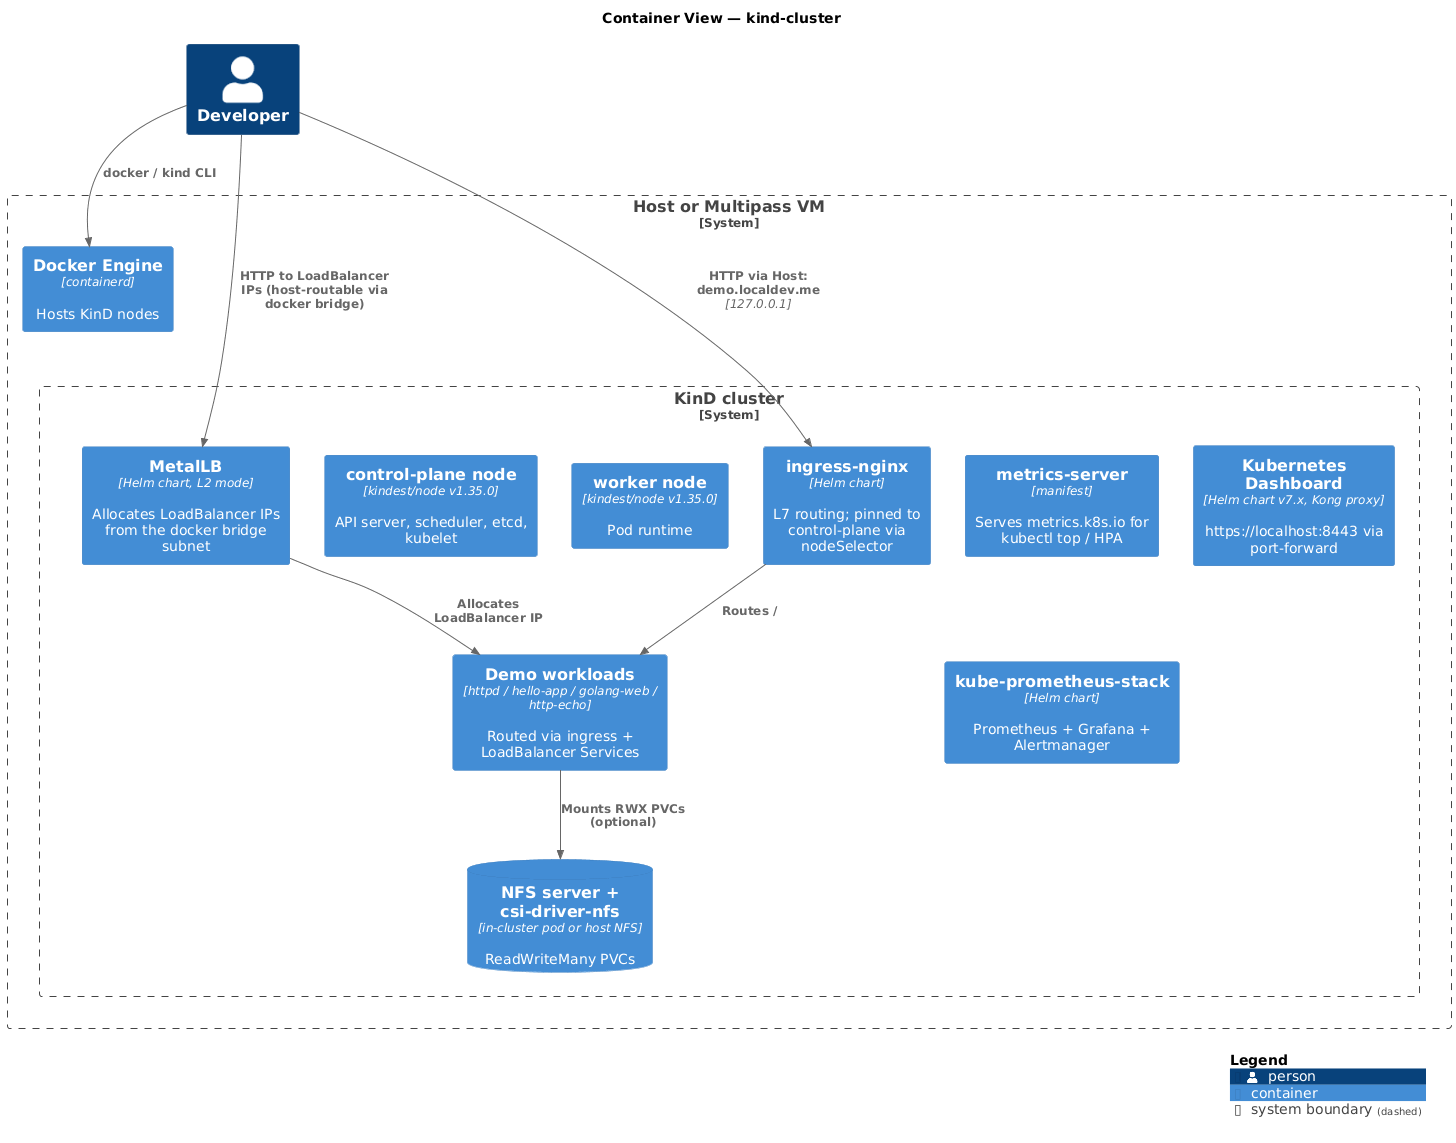
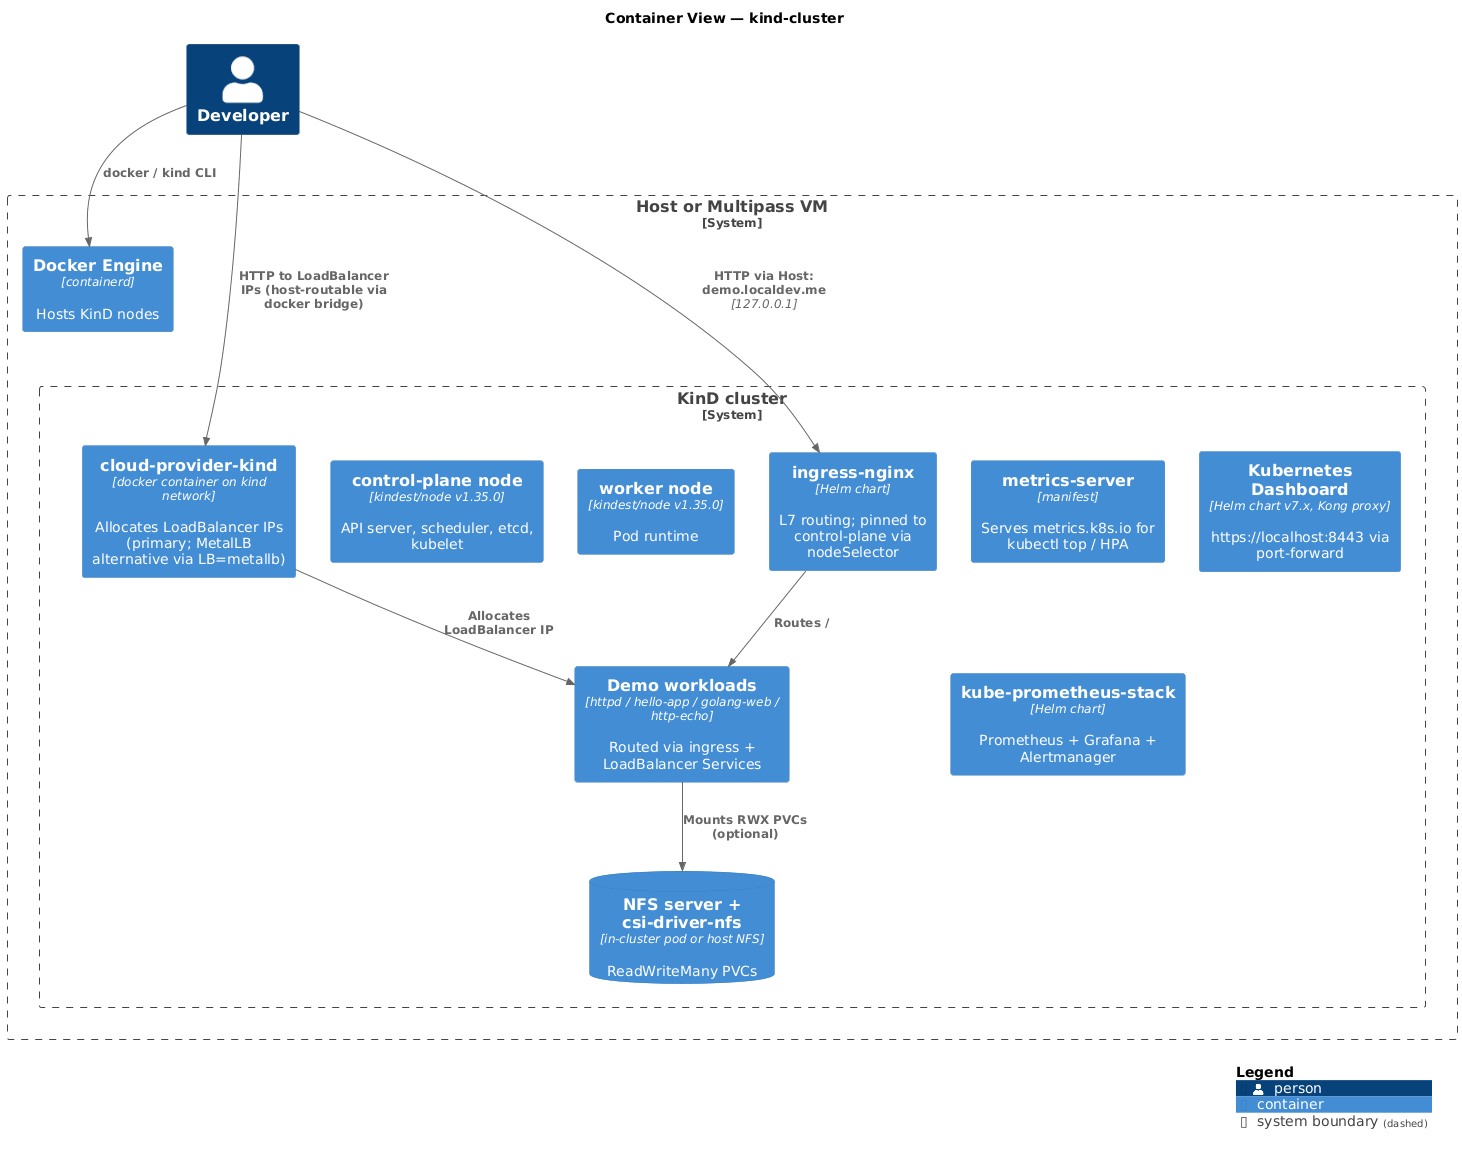
feat: make cloud-provider-kind the primary LoadBalancer; retain MetalLB
The portfolio's /makefile skill recommends cloud-provider-kind (CPK) for
KinD clusters: kind-team maintained, no in-cluster footprint, no
IPAddressPool/L2Advertisement YAML, no Docker-subnet carving. This repo
was on MetalLB pre-dating that guidance; aligning it with the skill while
preserving MetalLB as an opt-in for L2/BGP parity testing.

Makefile
  - CLOUD_PROVIDER_KIND_VERSION := v0.10.0 with `# renovate:` inline
    comment tracking registry.k8s.io/cloud-provider-kind/cloud-controller-manager
  - exported to scripts' env
  - two new targets (breaking rename from old `make metallb`):
      `make lb-cpk`      — install cloud-provider-kind (primary)
      `make lb-metallb`  — install MetalLB (alternative)

Scripts
  - NEW scripts/kind-add-cloud-provider-kind.sh — idempotent host-side
    docker-run on the `kind` network, refuses if MetalLB is present,
    verifies `kind` network exists
  - kind-install-all.sh dispatches on `LB=cpk|metallb` (default cpk)
  - kind-add-metallb.sh hard-refuses if CPK container is running
  - kind-delete.sh `docker rm -f cloud-provider-kind` BEFORE `kind delete`
    (prevents CPK zombie container when kind removes its docker network)
  - kind-create.sh --wait 10s → 60s (control-plane p95 on CI)
  - e2e-smoke.sh assertion matrix: LB-agnostic "ingress has ExternalIP"
    always, plus provider-specific check branched on ${LB:-cpk}

CI
  - ci.yml e2e job: install CPK instead of MetalLB on every push
[…]

diff --git a/README.md b/README.md
@@ -5,7 +5,7 @@
 
 # kind-cluster
 
-Local Kubernetes lab on Docker via [KinD](https://kind.sigs.k8s.io/) — ingress, MetalLB, Dashboard, RWX NFS storage, and Prometheus wired up out of the box. Run on your host, or inside a throwaway Multipass VM.
+Local Kubernetes lab on Docker via [KinD](https://kind.sigs.k8s.io/) — ingress, cloud-provider-kind (with MetalLB as a drop-in alternative), Dashboard, RWX NFS storage, and Prometheus wired up out of the box. Run on your host, or inside a throwaway Multipass VM.
 
 <img src="docs/diagrams/out/c4-context.png" alt="System Context — kind-cluster" width="700">
 
@@ -13,7 +13,8 @@ Local Kubernetes lab on Docker via [KinD](https://kind.sigs.k8s.io/) — ingress
 |-----------|-----------|-----------|
 | Cluster | [KinD](https://kind.sigs.k8s.io/) v0.31.0 on Docker | Fastest local k8s — single binary, multi-node config, no VM overhead |
 | Ingress | [ingress-nginx](https://kubernetes.github.io/ingress-nginx/) | Reference controller; matches what most cloud-managed clusters expose |
-| Load Balancer | [MetalLB](https://metallb.universe.tf/) | Gives KinD `Service: LoadBalancer` real IPs on the docker bridge — no `kubectl port-forward` per service |
+| Load Balancer (default) | [cloud-provider-kind](https://github.com/kubernetes-sigs/cloud-provider-kind) v0.10.0 | Allocates `Service: LoadBalancer` IPs on the `kind` docker bridge. Runs as a single host container; no in-cluster footprint, no `IPAddressPool`/`L2Advertisement`. Kind-team maintained. |
+| Load Balancer (alternative) | [MetalLB](https://metallb.universe.tf/) v0.15.3 | `LB=metallb make install-all`. Needed for L2/BGP parity testing, prod-mirror setups, or multi-cluster scenarios cloud-provider-kind doesn't cover. |
 | Storage (RWX) | [csi-driver-nfs](https://github.com/kubernetes-csi/csi-driver-nfs) v4.13.1 | Same driver backs both in-cluster and host-NFS modes — only the StorageClass differs |
 | Observability | [kube-prometheus-stack](https://github.com/prometheus-community/helm-charts) | One-shot Prometheus + Grafana + Alertmanager + node-exporter for HPA / dashboards |
 | Dashboard | [Kubernetes Dashboard](https://github.com/kubernetes/dashboard) v7.x | Helm chart v7 ships Kong-fronted dashboard with admin token in repo root |
@@ -25,13 +26,34 @@ Local Kubernetes lab on Docker via [KinD](https://kind.sigs.k8s.io/) — ingress
 
 Source: [`docs/diagrams/c4-container.puml`](./docs/diagrams/c4-container.puml). Render with `make diagrams` (uses pinned `plantuml/plantuml` Docker image).
 
-The cluster runs entirely on the local Docker bridge. MetalLB hands out LoadBalancer IPs from the bridge's IPv4 subnet so demo apps are reachable directly via `curl <LB_IP>:<port>` from the host. Ingress is bound to the control-plane node and patched to type `LoadBalancer` so `http://demo.localdev.me/` works without `kubectl port-forward`. The dashboard's Kong proxy listens on port 8443 inside the cluster — reach it via the `dashboard-forward` target.
+The cluster runs entirely on the local Docker bridge. The LoadBalancer provider (cloud-provider-kind by default) hands out `Service: LoadBalancer` IPs from the bridge's IPv4 subnet, so demo apps are reachable directly via `curl <LB_IP>:<port>` from the host. Ingress is bound to the control-plane node via the `ingress-ready` label and `kind-config.yaml` `extraPortMappings` 80/443, so `http://demo.localdev.me/` works through the host port — independent of which LoadBalancer provider is active. The dashboard's Kong proxy listens on port 8443 inside the cluster — reach it via the `dashboard-forward` target.
+
+### Which LoadBalancer?
+
+The default is **cloud-provider-kind** (CPK). It's simpler, faster to stand up, and maintained by the kind team. Stick with it unless you have a specific reason to pick MetalLB.
+
+| | cloud-provider-kind (default) | MetalLB |
+|---|---|---|
+| Install form | host `docker run` on the `kind` network | in-cluster Deployment + DaemonSet + CRDs |
+| IP allocation | automatic from the `kind` Docker subnet | you declare an `IPAddressPool` range |
+| Maintenance | kind-team, single binary | independent release cadence |
+| When to pick | default — works for everything this repo deploys | you need BGP / L2Advertisement parity with prod, or want to reproduce a MetalLB-specific bug |
+
+Switch to MetalLB for a single run:
+
+```bash
+LB=metallb make install-all           # first-time install
+# or, on an already-created cluster:
+make lb-metallb                        # install MetalLB as the add-on
+```
+
+Switching providers on a live cluster requires tearing down the first one — each script hard-refuses if the other is present. Run `make kind-down && LB=<provider> make kind-up` for a clean reset.
 
 ## Quick Start
 
 ```bash
 make deps        # auto-bootstraps mise + installs pinned tools from .mise.toml
-make kind-up     # create cluster + Nginx ingress + MetalLB + demo workloads
+make kind-up     # create cluster + Nginx ingress + cloud-provider-kind + demo workloads
 kubectl cluster-info --context kind-kind
 echo "127.0.0.1 demo.localdev.me" | sudo tee -a /etc/hosts   # one-time
 # Open http://demo.localdev.me/
@@ -243,7 +265,7 @@ echo "INGRESS_IP=$INGRESS_IP  HELLOWEB_IP=$HELLOWEB_IP  GOLANG_IP=$GOLANG_IP  FO
 
 ### Step 3 — make the IPs reachable from your host
 
-**Path A (bare host).** The MetalLB LoadBalancer IPs live on your laptop's `kind` docker bridge and are already reachable. Skip to Step 4.
+**Path A (bare host).** The LoadBalancer IPs live on your laptop's `kind` docker bridge and are already reachable. Skip to Step 4.
 
 **Path B (Multipass VM).** The IPs live on the VM's internal docker bridge and are **not routable from your host by default**. Pick one of the two approaches:
 
@@ -273,7 +295,7 @@ With Option 1 the URLs change: replace `$INGRESS_IP`/`$HELLOWEB_IP`/`$GOLANG_IP`
 
 #### Path B · Option 2 — Static route to the kind subnet (Linux/macOS, sudo once, natural URLs)
 
-Route the VM's kind docker subnet through the VM. After this, the MetalLB IPs are reachable directly from your host — the URLs in Step 4 work unchanged in your browser.
+Route the VM's kind docker subnet through the VM. After this, the LoadBalancer IPs are reachable directly from your host — the URLs in Step 4 work unchanged in your browser.
 
 ```bash
 # [HOST] — discover the kind IPv4 subnet (modern Docker lists IPv6 first when dual-stack)
@@ -359,7 +381,7 @@ Browser: `https://localhost:8443`
 
 ### kube-prometheus-stack (Prometheus + Grafana + Alertmanager)
 
-Installs the community [`kube-prometheus-stack`](https://github.com/prometheus-community/helm-charts/tree/main/charts/kube-prometheus-stack) Helm chart into the `monitoring` namespace and patches the `grafana` Service to `LoadBalancer` (served via MetalLB). Prometheus and Alertmanager stay as ClusterIPs — reach them via `kubectl port-forward`.
+Installs the community [`kube-prometheus-stack`](https://github.com/prometheus-community/helm-charts/tree/main/charts/kube-prometheus-stack) Helm chart into the `monitoring` namespace and patches the `grafana` Service to `LoadBalancer` (served via the LoadBalancer provider). Prometheus and Alertmanager stay as ClusterIPs — reach them via `kubectl port-forward`.
 
 The credential-discovery snippets reuse the `kube` function from [Access services · Step 1](#step-1--point-kubectl-at-the-cluster). Paths labelled **[HOST]** run on your laptop; **[VM]** run inside the Multipass VM.
 
@@ -383,7 +405,7 @@ echo "Alertmanager:  http://localhost:9093/"
 
 #### Path B — Multipass VM (`make vm-install-all`)
 
-Install runs inside the VM. `kube port-forward` would bind the VM's localhost (not your host's) — so the port-forward stays in the VM and you add an outer SSH tunnel from the host. Grafana goes through MetalLB so the access mode depends on which Option from §Access services Step 3 you picked.
+Install runs inside the VM. `kube port-forward` would bind the VM's localhost (not your host's) — so the port-forward stays in the VM and you add an outer SSH tunnel from the host. Grafana goes through the LoadBalancer provider so the access mode depends on which Option from §Access services Step 3 you picked.
 
 ```bash
 # [VM] — install + start in-VM port-forwards
@@ -438,7 +460,7 @@ make registry         # create cluster + registry container
 make registry-test    # pull hello-app, retag to localhost:5001, push, deploy, curl
 ```
 
-This is an **alternative** to the default `make install-all` flow — the registry cluster doesn't include ingress, MetalLB, or the demo workloads. Useful for iterating on an image you're building locally. Tear down with `make delete-cluster` and remove the registry container with `docker rm -f kind-registry`.
+This is an **alternative** to the default `make install-all` flow — the registry cluster doesn't include ingress, a LoadBalancer provider, or the demo workloads. Useful for iterating on an image you're building locally. Tear down with `make delete-cluster` and remove the registry container with `docker rm -f kind-registry`.
 
 ## Available Make Targets
 
@@ -450,8 +472,8 @@ Run `make help` to list targets.
 |--------|-------------|
 | `make kind-up` | docker-compose-style alias for `install-all` (bring the whole stack up) |
 | `make kind-down` | docker-compose-style alias for `delete-cluster` (tear the whole stack down) |
-| `make install-all` | Create cluster + Nginx ingress + MetalLB + demo workloads (granular) |
-| `make install-all-no-demo-workloads` | Create cluster + Nginx ingress + MetalLB (no demo apps) |
+| `make install-all` | Create cluster + Nginx ingress + LoadBalancer (cloud-provider-kind default, or `LB=metallb`) + demo workloads |
+| `make install-all-no-demo-workloads` | Same minus demo apps |
 | `make create-cluster` | Create KinD cluster (granular) |
 | `make delete-cluster` | Delete KinD cluster (granular) |
 | `make export-cert` | Export k8s client keys and CA certificates |
@@ -466,7 +488,8 @@ Run `make help` to list targets.
 | `make dashboard-forward` | Port-forward dashboard to `https://localhost:8443` and open browser |
 | `make dashboard-token` | Print the admin-user token |
 | `make nginx-ingress` | Install Nginx ingress controller |
-| `make metallb` | Install MetalLB load balancer |
+| `make lb-cpk` | Install cloud-provider-kind (primary LoadBalancer; default for `make install-all`) |
+| `make lb-metallb` | Install MetalLB (alternative; also: `LB=metallb make install-all`) |
 | `make metrics-server` | Install metrics-server (for `kubectl top` / HPA) |
 | `make kube-prometheus-stack` | Install Prometheus + Grafana + Alertmanager |
 
@@ -535,7 +558,8 @@ GitHub Actions runs on every push to `main`, tags `v*`, and pull requests.
 |-----|-------|-------|
 | **static-check** | — | `make static-check` (lint + secrets + trivy-fs + trivy-config + mermaid-lint + diagrams-check) |
 | **docker** | static-check | `make image-test` — build and runtime-verify the `kubectl-test` image |
-| **e2e** | static-check | `jdx/mise-action` (pinned tools from `.mise.toml`) + `make deps` + `make create-cluster`, install ingress + MetalLB + dashboard, deploy all demo workloads, run `make e2e` for body-asserting smoke tests via `docker exec` into the kind control-plane (~3.5 min end-to-end) |
+| **e2e** | static-check | `jdx/mise-action` + `make deps` + `make create-cluster`, install ingress + cloud-provider-kind + dashboard, deploy all demo workloads, run `make e2e` for body-asserting smoke tests via `docker exec` (~4 min end-to-end) |
+| **e2e-metallb** | — | Mirrors `e2e` but installs MetalLB instead of cloud-provider-kind. Weekly cron (Sun 04:00 UTC) + `workflow_dispatch` + push to `scripts/kind-add-metallb.sh`. Catches MetalLB regressions without taxing every PR. |
 | **ci-pass** | static-check, docker, e2e | Aggregate gate — fails if any upstream job failed or was cancelled |
 
 A separate `cleanup-runs.yml` workflow prunes old workflow runs on a weekly schedule (Sunday midnight).

diff --git a/CLAUDE.md b/CLAUDE.md
@@ -2,7 +2,7 @@
 
 ## Project Overview
 
-**kind-cluster** is a Shell/Kubernetes project for creating and managing local Kubernetes clusters using Docker with [KinD](https://kind.sigs.k8s.io/). It provides scripts for installing cluster components (Nginx ingress, MetalLB, dashboard) and deploying demo workloads.
+**kind-cluster** is a Shell/Kubernetes project for creating and managing local Kubernetes clusters using Docker with [KinD](https://kind.sigs.k8s.io/). It provides scripts for installing cluster components (Nginx ingress, LoadBalancer provider — cloud-provider-kind by default with MetalLB as alternative, dashboard) and deploying demo workloads.
 
 - **Owner**: AndriyKalashnykov/kind-cluster
 - **License**: MIT
@@ -25,9 +25,14 @@ images/               # Dockerfiles (kubectl-test image)
 ```bash
 make help                              # List all available targets
 make create-cluster                    # Create KinD cluster
-make install-all                       # Full install: cluster + ingress + MetalLB + demo apps
-make install-all-no-demo-workloads     # Cluster + ingress + MetalLB (no demo apps)
+make install-all                       # Full install: cluster + ingress + cloud-provider-kind + demo apps
+make install-all-no-demo-workloads     # Cluster + ingress + cloud-provider-kind (no demo apps)
+LB=metallb make install-all            # Same as install-all but with MetalLB instead of cloud-provider-kind
 make delete-cluster                    # Tear down cluster
+
+# LoadBalancer add-ons
+make lb-cpk                            # Install cloud-provider-kind (primary; already part of install-all)
+make lb-metallb                        # Install MetalLB (alternative to lb-cpk)
 
 # Multipass VM (host-agnostic alternative)
 make vm-up [NAME=…]                    # Launch Ubuntu 22.04 VM (cloud-init provisions Docker + kind + kubectl + helm)
@@ -49,7 +54,8 @@ make ci-run                            # Run GitHub Actions workflow locally via
 
 ## CI/CD
 
-- **ci.yml** — runs on push to `main`, tags `v*`, and PRs. Four jobs: `static-check` → (`docker` ‖ `e2e`) → `ci-pass`. Both `static-check` and `e2e` use `jdx/mise-action` to install the pinned toolchain from `.mise.toml` (kind, kubectl, jq, shellcheck, actionlint, gitleaks, trivy, hadolint, act — Renovate-tracked via the mise manager). The `e2e` job then runs `make deps` (verifies docker/helm/curl/base64 + idempotent `mise install`) + `make create-cluster`, runs all install/deploy scripts, then `make e2e` (delegates to `scripts/e2e-smoke.sh`) for body-asserting smoke tests via `docker exec` curl. `helm/kind-action` was dropped in favor of explicit `make` invocations to avoid the action's built-in Post-step teardown flaking on Docker daemon `did not receive an exit event` errors at job-end.
+- **ci.yml** — runs on push to `main`, tags `v*`, and PRs. Four jobs: `static-check` → (`docker` ‖ `e2e`) → `ci-pass`. Both `static-check` and `e2e` use `jdx/mise-action` to install the pinned toolchain from `.mise.toml` (kind, kubectl, jq, shellcheck, actionlint, gitleaks, trivy, hadolint, act — Renovate-tracked via the mise manager). The `e2e` job installs **cloud-provider-kind** as the LoadBalancer provider, runs all install/deploy scripts, then `make e2e` (delegates to `scripts/e2e-smoke.sh`) for body-asserting smoke tests via `docker exec` curl. `helm/kind-action` was dropped in favor of explicit `make` invocations to avoid the action's built-in Post-step teardown flaking on Docker daemon `did not receive an exit event` errors at job-end.
+- **e2e-metallb.yml** — weekly cron (Sunday 04:00 UTC) + `workflow_dispatch` + push on `scripts/kind-add-metallb.sh`. Mirrors the `e2e` job but installs **MetalLB** instead of cloud-provider-kind; runs `LB=metallb make e2e` to drive the provider-specific branch of the smoke-test assertion matrix. Catches MetalLB regressions without taxing every PR.
 - **cleanup-runs.yml** — weekly cron (Sunday midnight). Two jobs: `cleanup-runs` (prunes old runs, keeps latest 5) and `cleanup-caches` (deletes caches from closed PR branches).
 
 ## Dependencies
@@ -58,7 +64,7 @@ Runtime (user provides): Docker, helm, curl, base64.
 
 Pinned in [`.mise.toml`](./.mise.toml) and installed by `make deps` via [mise](https://mise.jdx.dev): `kind`, `kubectl`, `jq`, `shellcheck`, `actionlint`, `gitleaks`, `trivy`, `hadolint`, `act`. `make deps` auto-bootstraps mise into `~/.local/bin` if missing, then runs `mise install` (idempotent; no-op at pinned versions).
 
-Docker-image-pinned in Makefile (Renovate-tracked via inline `# renovate:` comments): `KUBECTL_VERSION` (shared with `images/Dockerfile` `--build-arg`), `MERMAID_CLI_VERSION`, `PLANTUML_VERSION`, `KIND_NODE_IMAGE`.
+Docker-image-pinned in Makefile (Renovate-tracked via inline `# renovate:` comments): `KUBECTL_VERSION` (shared with `images/Dockerfile` `--build-arg`), `MERMAID_CLI_VERSION`, `PLANTUML_VERSION`, `KIND_NODE_IMAGE`, `CLOUD_PROVIDER_KIND_VERSION`.
 
 No Go modules; no package manager lockfiles.
 
